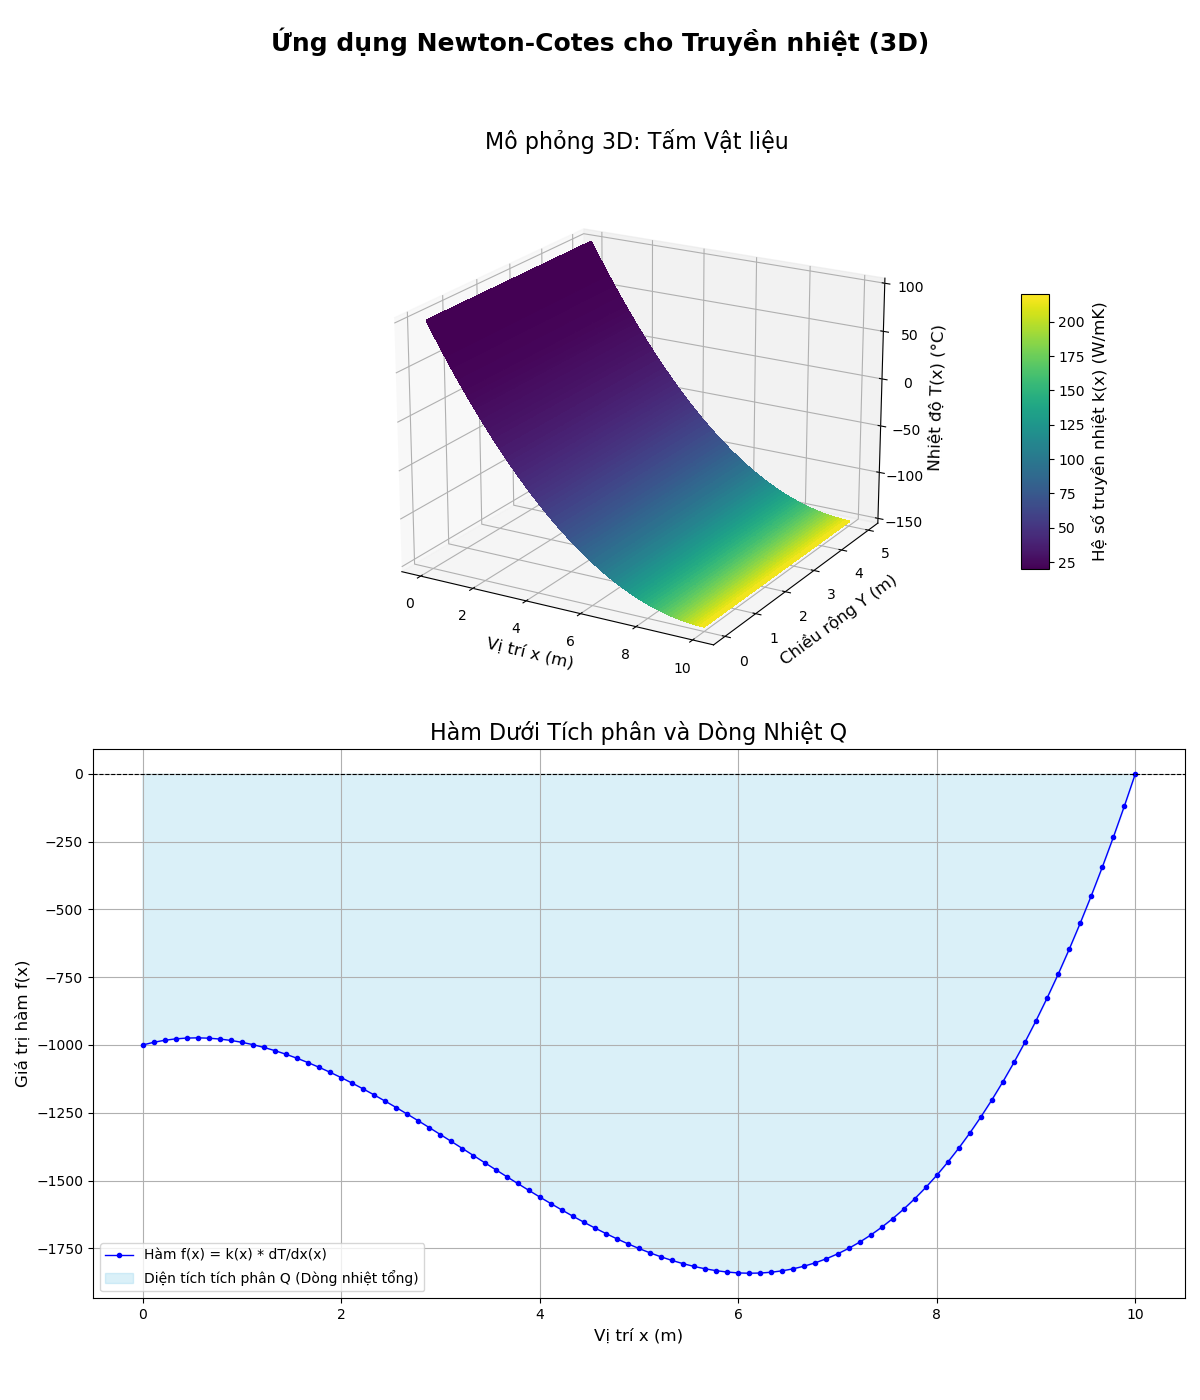
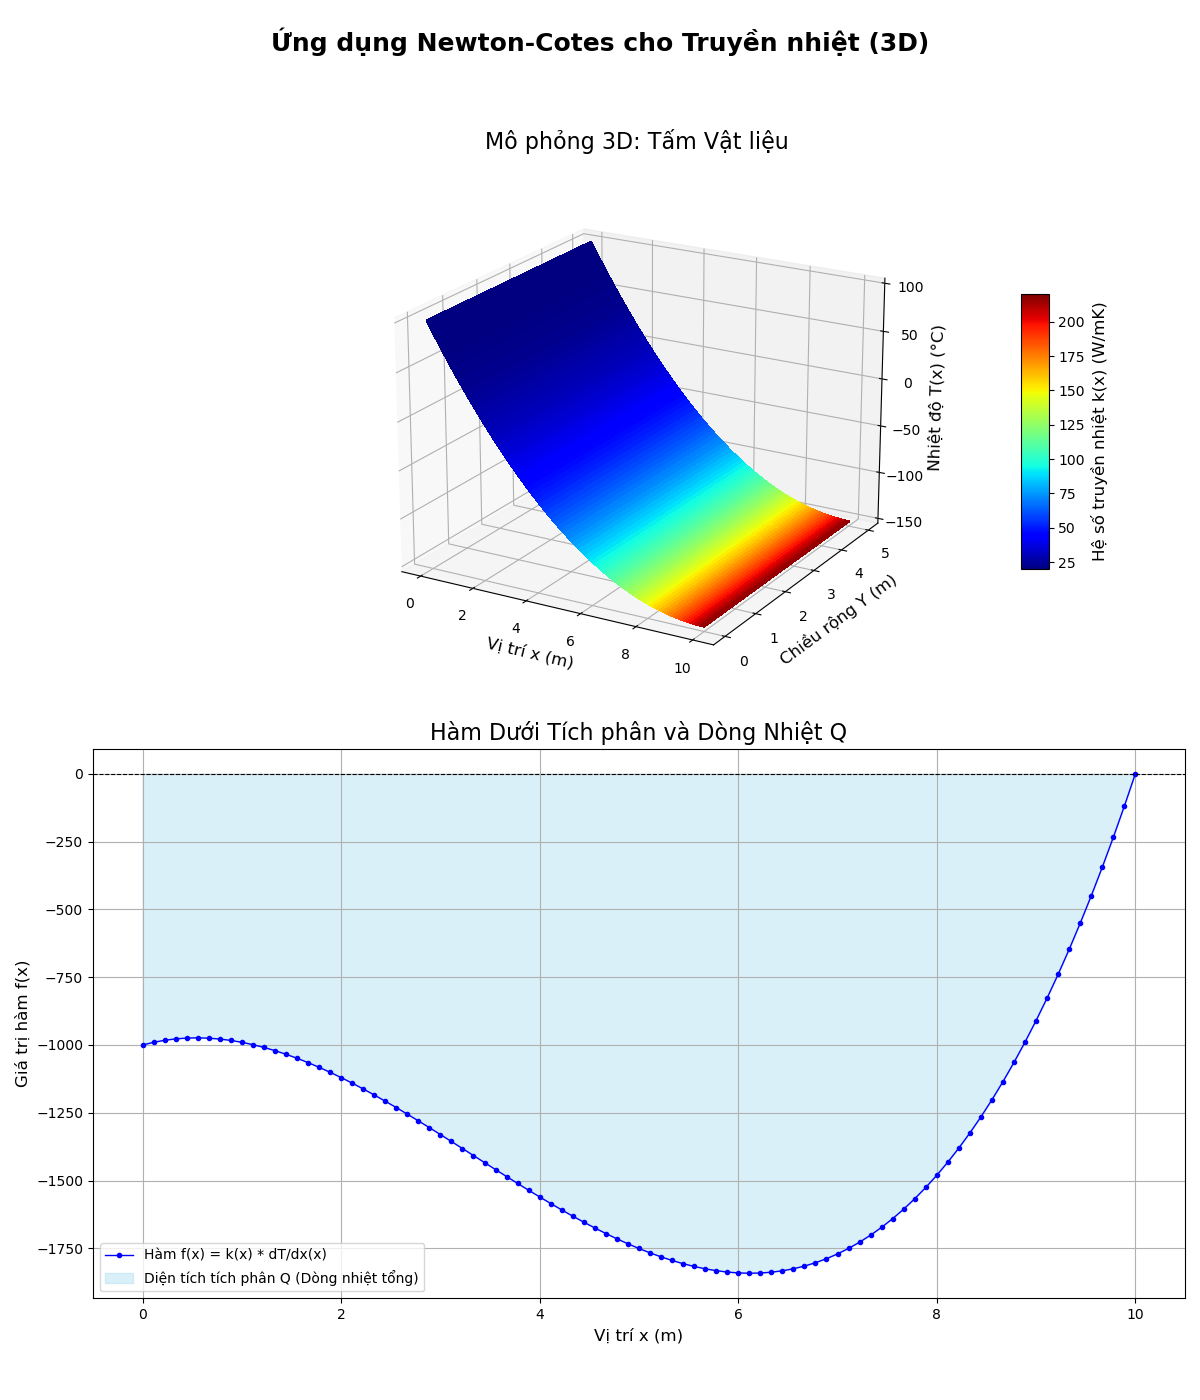
change colormap to jet

Changed region(s): [[0.3392, 0.1536, 0.7092, 0.4607], [0.8325, 0.215, 0.8942, 0.3993]]

diff --git a/function/plot_heat_transfer_3D_and_integrand.py b/function/plot_heat_transfer_3D_and_integrand.py
@@ -34,7 +34,7 @@ def plot_heat_transfer_3D_and_integrand(x_nodes, k_values, y_values, L, k_func, 
     K_values_mesh = k_func(X) # k(x) không đổi theo y
     
     # Thiết lập colormap
-    cmap_name = 'viridis' 
+    cmap_name = 'jet' 
     cmap = cm.get_cmap(cmap_name)
     norm = Normalize(vmin=np.min(k_values), vmax=np.max(k_values))
     
